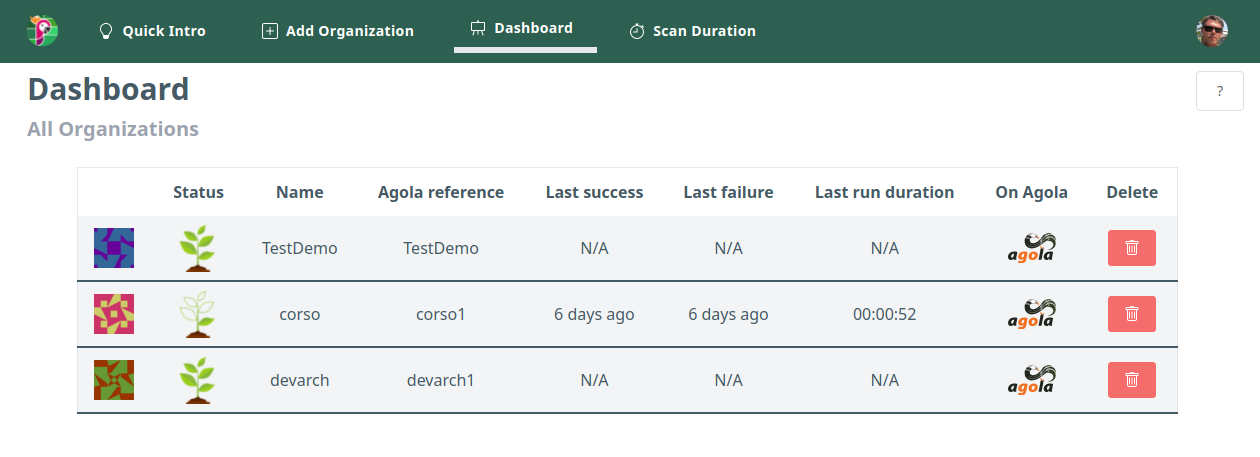
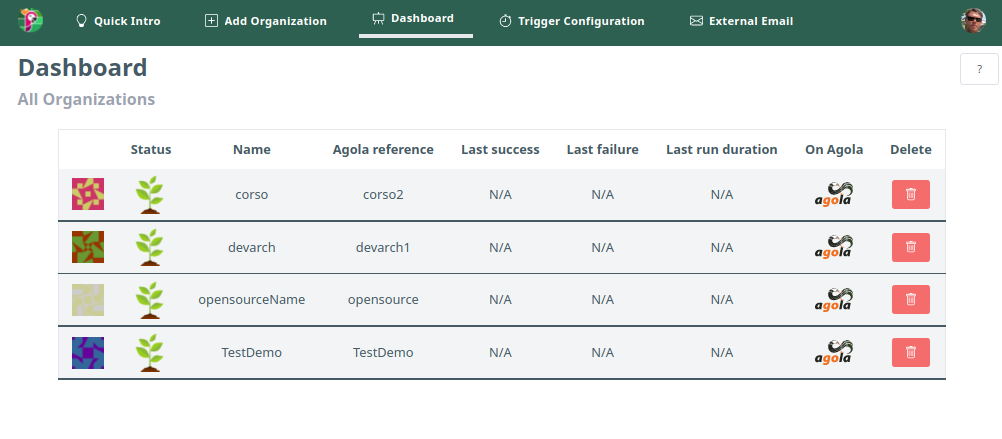
updated all images, added externalEmails and Buildah

diff --git a/docs/src/.vuepress/config.js b/docs/src/.vuepress/config.js
@@ -27,15 +27,17 @@ module.exports = {
           children: [
             'login',
             'GitSourceCommands',
-            'Dashboard',
             'AddOrganizations',
+            'Dashboard',
             'DelOrganizations',
             'ChangeUserRole',
             'Triggers',
+            'ExternalEmails',
             'LocalInstallation',
             'K8sInstallation',
             'Database',
             'Swagger',
+            'UsingBuildah',
           ]
         }
       ],

diff --git a/docs/src/guide/Triggers.md b/docs/src/guide/Triggers.md
@@ -1,9 +1,10 @@
 # Triggers Configuration
 
-Papagaio synchronizes information between Agola and the Gitsources and here you can configure the time interval. 
-Also this is necessary to be aligned in case of communication problems between the systems.
+Papagaio keeps synchronized information between Agola and the Git sources, in case of communication problems between the systems.
 
-* Organizations trigger: 
+Here you can configure the time interval for three types of triggers. 
+
+* Organizations: 
 
   To synchronize all Organizations projects/branches with Agola for all repositories in Papagaio.
 
@@ -13,18 +14,21 @@ Also this is necessary to be aligned in case of communication problems between t
 
   Papagaio takes care if a webhook fails, this trigger fixes it.  
 
-* Failed runs trigger: 
+* Failed runs: 
 
   Updates info in the Dashboard.
-  Send an e-mail to the person who executed the "push", to all the project owners and an external user (external user is under construction)
+
+  Send an e-mail to the person who executed the "push", to all the project owners and also to a list of external users
  
   Synchronizes with Agola : date, time duration and the url link of every last succeded/failed run of all branches in Papagaio.
   This trigger keeps the last 10 runs ordered by date to manage the e-mail sending. 
 
-* User trigger:
+* User:
 
-  Synchronizes all users like if a user is deleted from git it also deletes in Papagaio.
-  if the user is no longer owner (or deleted in git), another user who is owner is connected to the organization is assigned.
+  Synchronizes all users in case their roles change or a user is deleted from the git source.
+
+  If a user is a project owner is deleted in git, Papagaio assigns automaticaly another user to be owner to that organization.
+  
   Refreshes access tokens (expiration)
 
 

diff --git a/docs/src/guide/AddOrganizations.md b/docs/src/guide/AddOrganizations.md
@@ -2,13 +2,13 @@
 
 You can add any avaiable organization that is previously created in your git source.
 
-* Organization Name: `Click on Select to see a list of all organizations available on your git source`
+* Select Organization: `Click on Select to see a list of all organizations available on your git source.This will be the name of the Organization in Papagaio.`
 
-* Agola reference name: `It's possible to have a new organization name or select from a previously created one`
+* Agola reference name: `This is the name of the Organization in Agola. It's possible to create a new organization or select from a previously created one. `
 
-* Behaviour: `This option by default selects all repositories or you can specify a filter`
+* Behaviour - Default: `This option by default selects all repositories/projects. If you turn off it is possible to specify a filter by wildcard or regex to meet your selection.`
 
-* Create: `Clicking on Create, Papagaio will create the organization in Agola with all members and owners respectively`
+* Create: `Clicking on Create, Papagaio will create the organization in Agola with all repositories from your selected Organization, with all members and owners respectively`
 
 
 Page example:

diff --git a/docs/src/guide/login.md b/docs/src/guide/login.md
@@ -6,7 +6,9 @@ Papagaio supports 3 gitsources with Oauth2 authentication
 * Github
 * GitLab 
 
-Once you have your Organization created in one of the Git's above you can add a git source in Papagaio.
+In order to login with your git source in Papagaio, you must have an Organization created in one of the Git's above. 
+
+You can use Papagaio's CLI to add a git source.
 
 Login page example:
 

diff --git a/docs/src/guide/Database.md b/docs/src/guide/Database.md
@@ -1,3 +1,3 @@
 # Database
 
-The Database used by Papagaio is [Badger](https://github.com/dgraph-io/badger) , an embeddable, persistent and fast key-value (KV) database written in pure Go.
+The Database used by Papagaio is [Badger](https://github.com/dgraph-io/badger) , an embeddable, fast key-value (KV) database written in pure Go.

diff --git a/docs/src/guide/UsingBuildah.md b/docs/src/guide/UsingBuildah.md
@@ -1,0 +1,7 @@
+# Using Buildah
+
+In case you decide to use Buildah to build your docker images instead of Kaniko, some parameters has to be added as follows:
+
+* In Agola inside configmaps.yml, under executor: add `allowPrivilegedContainers: true`
+
+* In Papagaio inside config.yml, under containers: image: add `privileged: true` 

diff --git a/docs/src/guide/ExternalEmails.md b/docs/src/guide/ExternalEmails.md
@@ -1,0 +1,10 @@
+# External Email
+
+By default Papagaio has the ability to send an e-mail when a Run is failed to:
+
+* the project's owners 
+* who commits 
+
+If it's necessary to add some external e-mails, you can do it here.
+
+![ExternaEmails](../images/ext-email.png "ExternaEmails")

diff --git a/README.md b/README.md
@@ -1,0 +1,11 @@
+# Papagaio-docs
+
+Here you can find the documentation for Papagaio github pages
+
+in case you want a local version of this documentation project:
+
+1) clone
+2) cd docs
+3) npm run dev
+
+open the page https://localhost:8080

diff --git a/docs/src/guide/Swagger.md b/docs/src/guide/Swagger.md
@@ -1,3 +1,6 @@
 # Swagger
 
+Use command line "swag init" to update swag autogenerate files
+
+API swagger documentation is available with the url below
 * URL: /swagger/index.html or /swagger/
